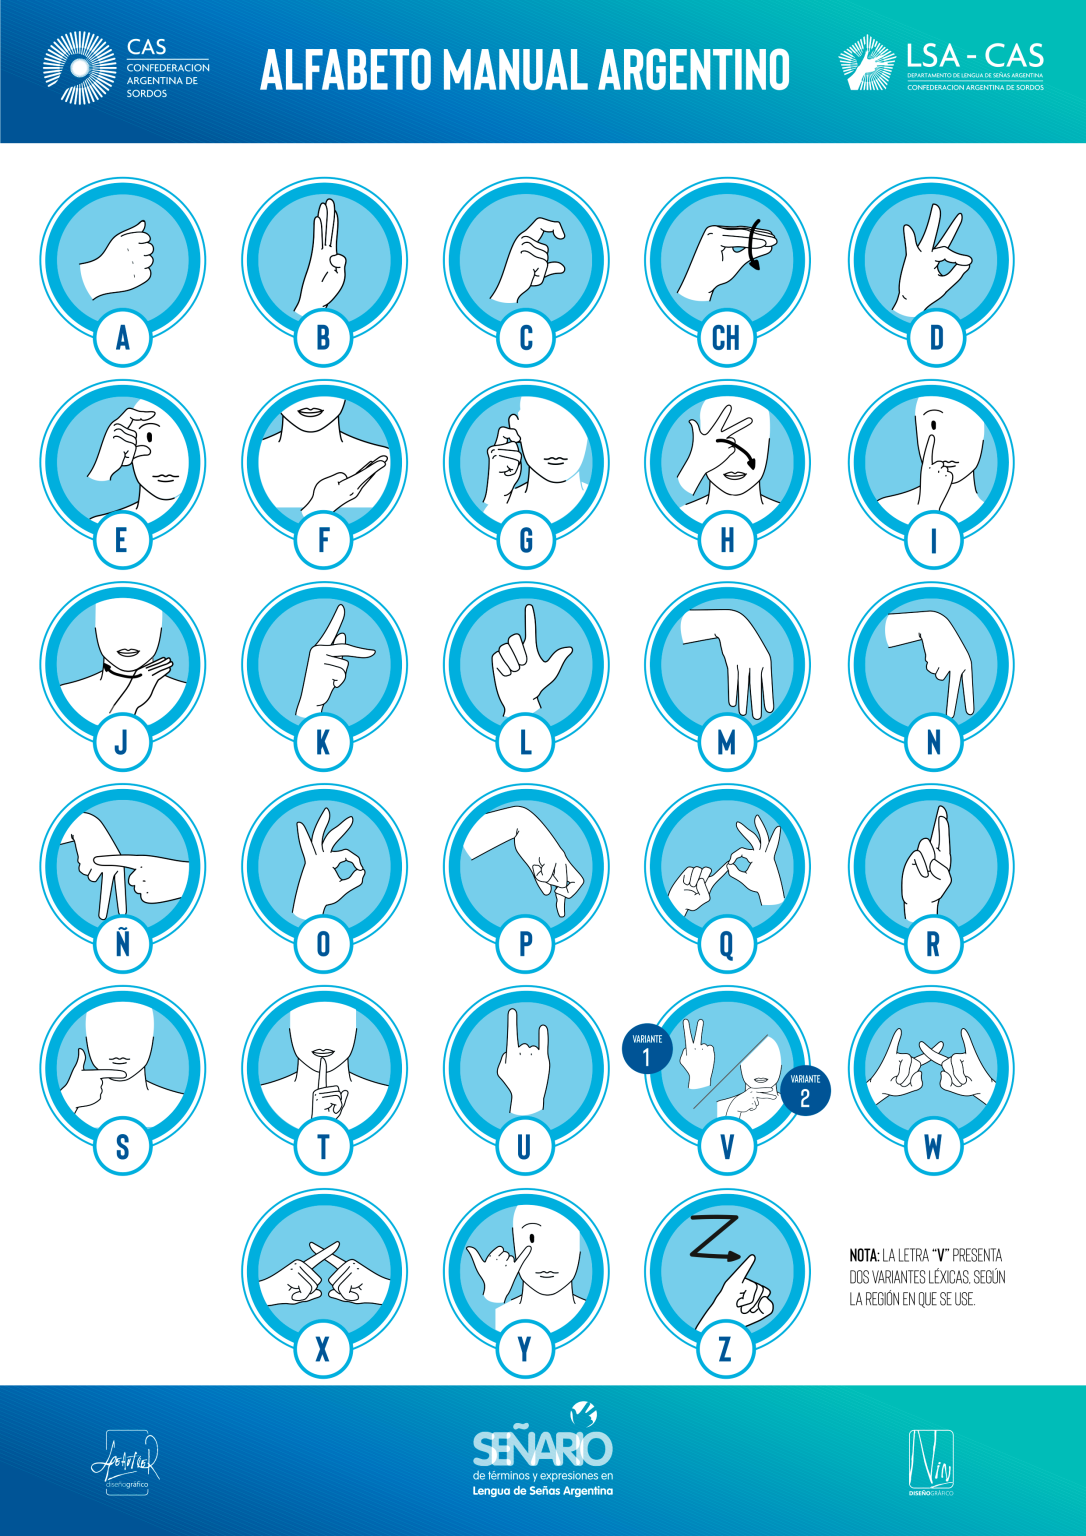
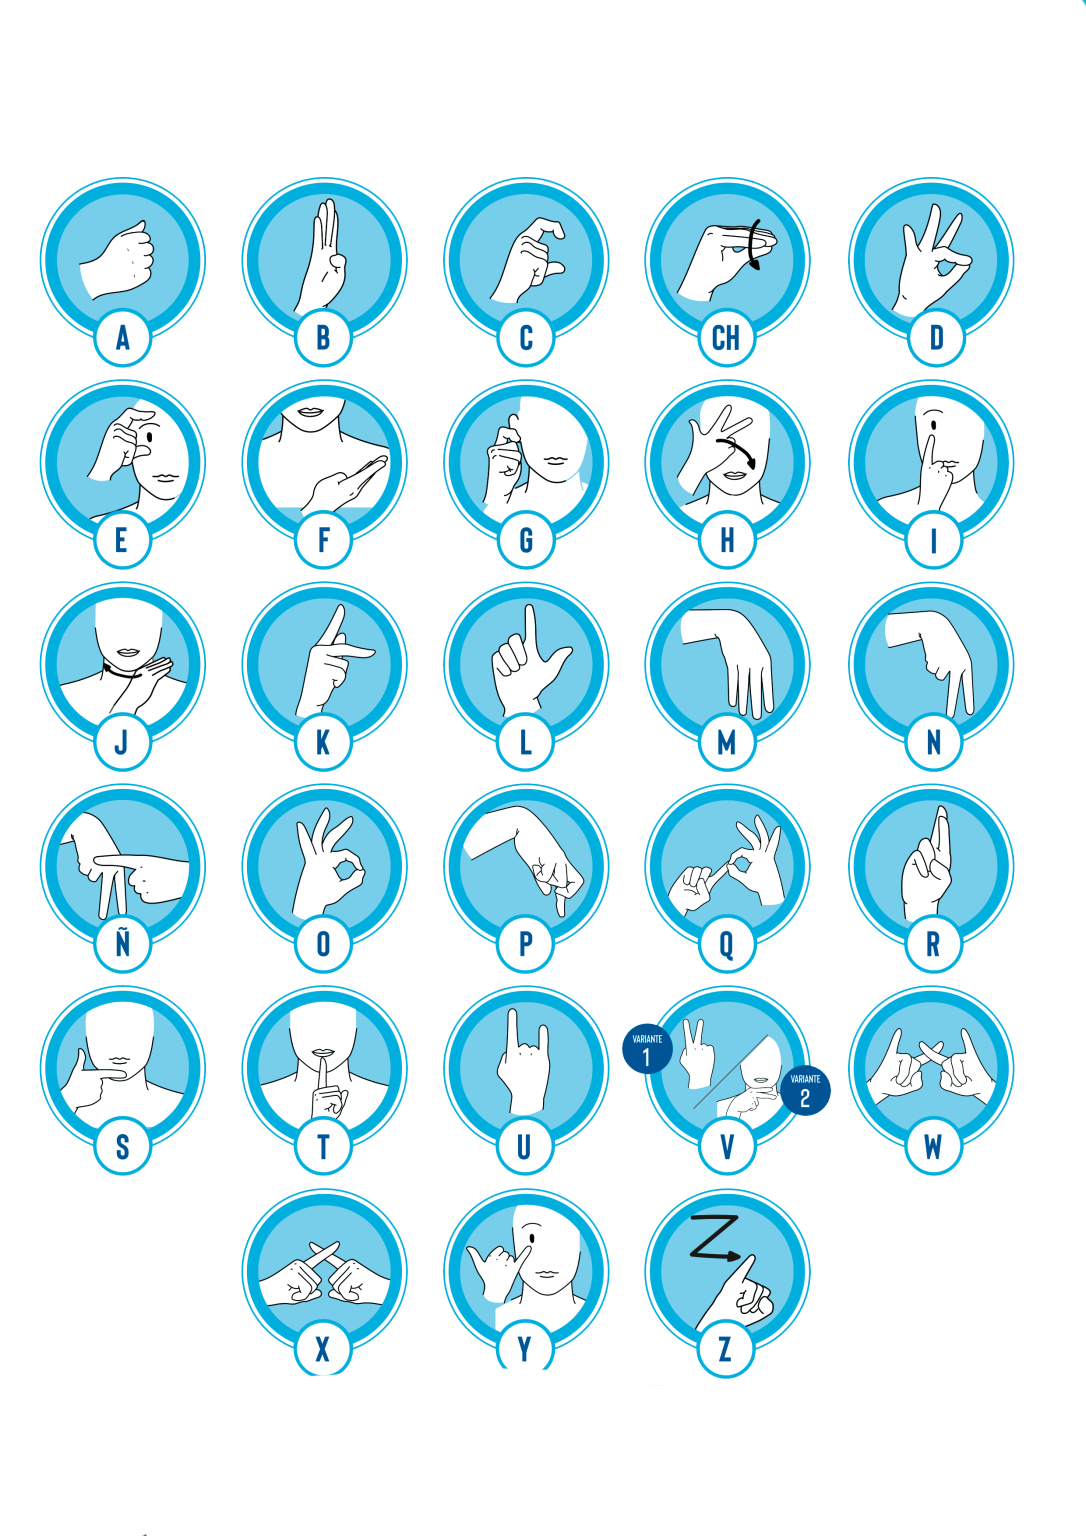
refactor: import cropped alphabet images and update dictionary path references

Changed region(s): [[0.0, 0.875, 1.0, 1.0], [0.0, 0.0, 1.0, 0.0938], [0.7597, 0.8125, 0.942, 0.8438]]

diff --git a/scripts/recortar_alfabeto.py b/scripts/recortar_alfabeto.py
@@ -1,0 +1,99 @@
+"""
+Recorta el Alfabeto Manual Argentino (LSA) en imagenes individuales por letra.
+Imagen fuente: assets/img/Alfabeto-Manual-Argentino-LSA-CAS-1086x1536.png
+Resolucion: 1086 x 1536 px
+Layout: 5 columnas x 6 filas (fila 6 tiene solo 3 letras centradas)
+"""
+
+import sys, os
+# Forzar UTF-8 en stdout para evitar errores en Windows
+sys.stdout.reconfigure(encoding="utf-8", errors="replace")
+
+from PIL import Image
+
+# ── Rutas ──────────────────────────────────────────────────────────────────────
+BASE_DIR = os.path.dirname(os.path.dirname(os.path.abspath(__file__)))
+SRC_PATH  = os.path.join(BASE_DIR, "assets", "img", "Alfabeto-Manual-Argentino-LSA-CAS-1086x1536.png")
+OUT_DIR   = os.path.join(BASE_DIR, "assets", "alfabeto_lsa")
+os.makedirs(OUT_DIR, exist_ok=True)
+
+# ── Dimensiones de la imagen ────────────────────────────────────────────────
+IMG_W, IMG_H = 1086, 1536
+
+# Margenes externos del grid (px) — ajustados midiendo la imagen original
+MARGIN_LEFT   = 25
+MARGIN_RIGHT  = 25
+MARGIN_TOP    = 90
+MARGIN_BOTTOM = 50
+
+# Filas 1-5: 5 col | Fila 6: 3 col centradas
+COLS_MAIN = 5
+ROWS      = 6
+
+# Area util del grid
+GRID_W = IMG_W - MARGIN_LEFT - MARGIN_RIGHT
+GRID_H = IMG_H - MARGIN_TOP  - MARGIN_BOTTOM
+
+# Alto de cada fila / ancho de cada celda
+ROW_H  = GRID_H // ROWS
+CELL_W = GRID_W // COLS_MAIN
+
+# Letras del alfabeto LSA argentino en orden fila x columna
+LETTERS = [
+    # Fila 1
+    "A", "B", "C", "CH", "D",
+    # Fila 2
+    "E", "F", "G", "H", "I",
+    # Fila 3
+    "J", "K", "L", "M", "N",
+    # Fila 4
+    "N", "O", "P", "Q", "R",
+    # Fila 5
+    "S", "T", "U", "V", "W",
+    # Fila 6 (3 letras centradas en cols 1,2,3 de 5)
+    "X", "Y", "Z",
+]
+
+# Nombres correctos (sobreescribe la lista anterior con los nombres reales)
+LETTERS = [
+    "A", "B", "C", "CH", "D",
+    "E", "F", "G", "H", "I",
+    "J", "K", "L", "M", "N",
+    "Ñ", "O", "P", "Q", "R",
+    "S", "T", "U", "V", "W",
+    "X", "Y", "Z",
+]
+
+# Sin padding extra — las celdas ya estan bien delimitadas
+PAD = 5
+
+img = Image.open(SRC_PATH).convert("RGBA")
+print(f"Imagen cargada: {img.size}")
+print(f"CELL_W={CELL_W}  ROW_H={ROW_H}")
+
+for idx, letter in enumerate(LETTERS):
+    row = idx // COLS_MAIN
+    col = idx % COLS_MAIN
+
+    # Fila 6: X(col0), Y(col1), Z(col2) estan centradas visualmente
+    # en la imagen, ocupan las columnas 1, 2, 3 (de 0 a 4)
+    if row == 5:
+        col_real = col + 1   # corrimiento de 1 celda a la derecha
+        x1 = MARGIN_LEFT + col_real * CELL_W + PAD
+    else:
+        x1 = MARGIN_LEFT + col * CELL_W + PAD
+
+    y1 = MARGIN_TOP + row * ROW_H + PAD
+    x2 = x1 + CELL_W - PAD * 2
+    y2 = y1 + ROW_H  - PAD * 2
+
+    # Recorte
+    crop = img.crop((x1, y1, x2, y2))
+
+    # Nombre de archivo: A.png, B.png, CH.png, Ñ.png …
+    filename = f"{letter}.png"
+    out_path = os.path.join(OUT_DIR, filename)
+    crop.save(out_path, "PNG")
+    print(f"  [{idx+1:02d}] {letter:3s} -> {out_path}")
+
+print(f"\n✅ {len(LETTERS)} letras guardadas en: {OUT_DIR}")
